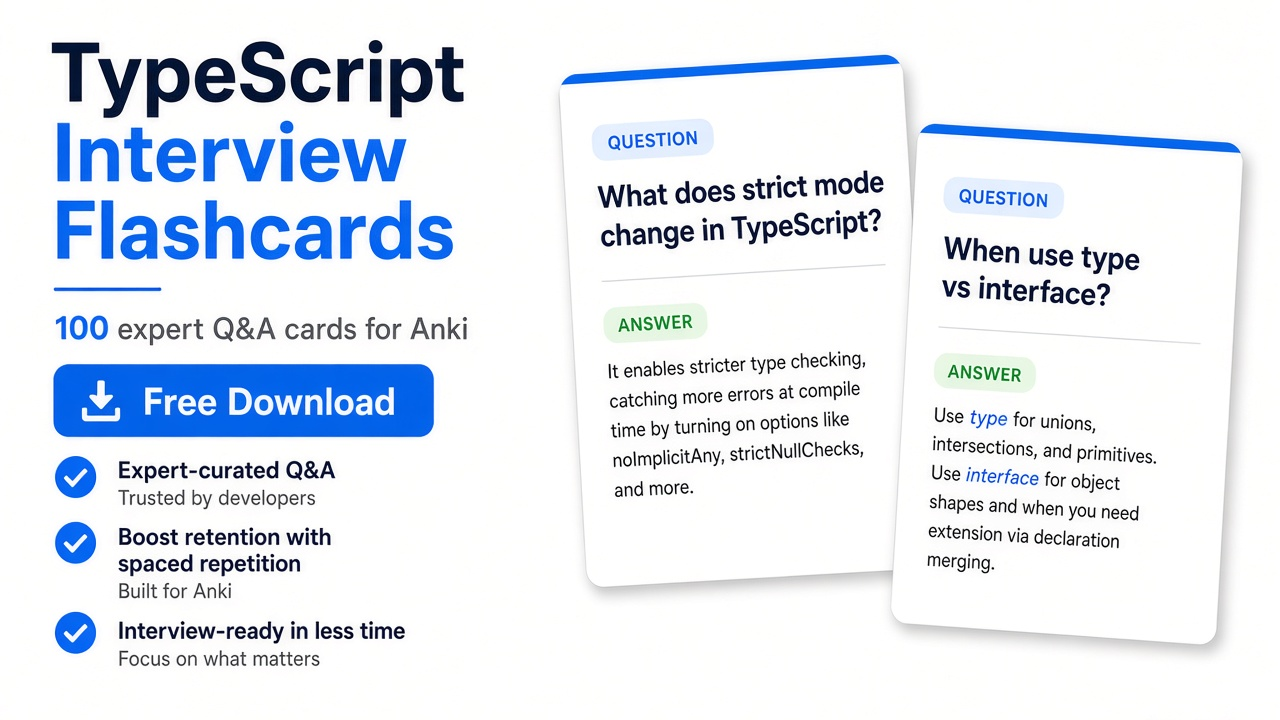
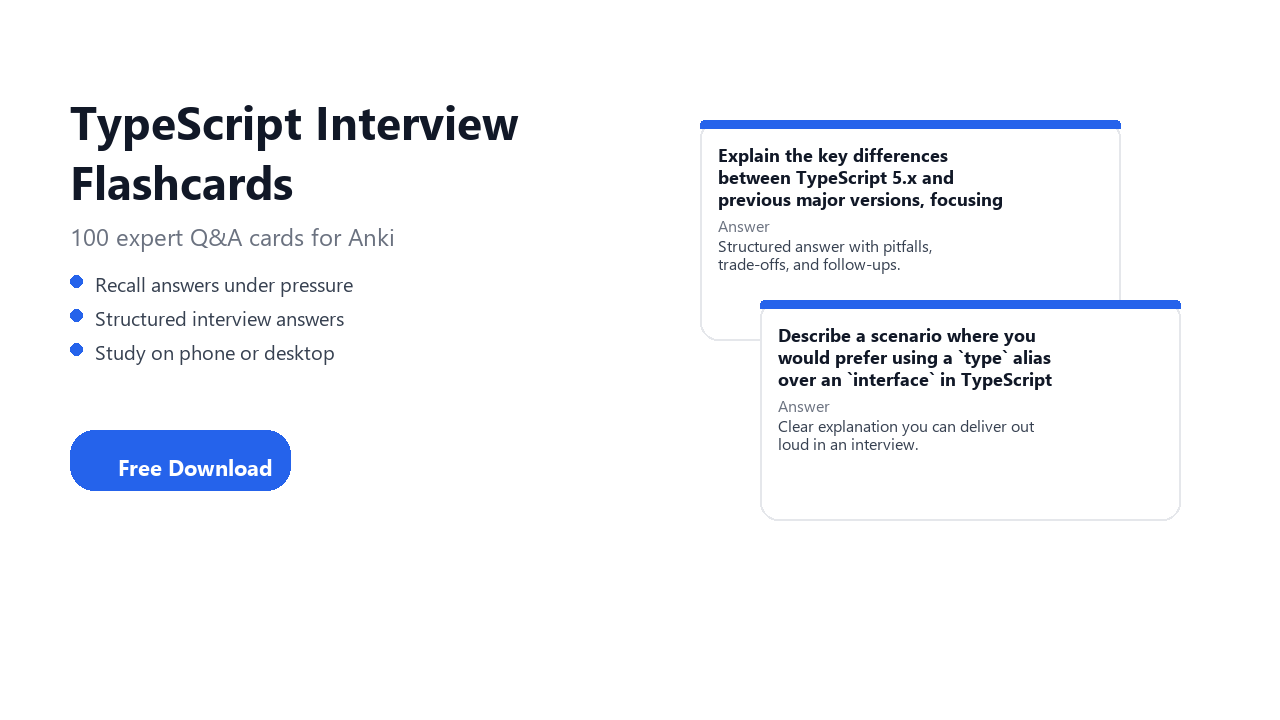
Updating TypeScript Interview Flashcards Free Anki deck repo

diff --git a/README.md b/README.md
@@ -180,7 +180,6 @@ If you use Anki on more than one device, you can use [AnkiWeb sync](https://docs
 | --- | --- |
 | **Cards** | 100 interview questions with detailed answers |
 | **Audience** | software engineer |
-| **Edition** | 2026 |
 | **Topics** | TypeScript 5.x, generics, utility types, narrowing, strict mode, and modules |
 | **Deck file** | `TypeScript_Interview_2026.apkg` |
 
@@ -250,6 +249,7 @@ Releases are tagged by year (e.g. `v2026.1`). Watch this repo for new editions.
 
 Part of the **Summon The JSON** interview flashcard series:
 
+- **[Full deck catalog](https://github.com/tomaszs/flashcards)** · all free interview flashcard repos by topic
 - [Summon The JSON](https://summonthejson.com) · physical and printable decks
 - GitHub: search [`tomaszs interview-flashcards-free`](https://github.com/search?q=tomaszs+interview-flashcards-free&type=repositories) for related repos
 - Topics: typescript, software engineering interview, anki interview prep
@@ -287,7 +287,7 @@ Commercial, derivative, organizational, or AI-related licenses start at **USD $5
 
 ## Changelog
 
-### v2026.1 (2026)
+### v2026.1
 
 - Initial public release: 100 cards for TypeScript interviews
-- Edition aligned with 2026 hiring and tooling
+- Structured Q&A aligned with modern hiring topics

diff --git a/deck-source/topics.md b/deck-source/topics.md
@@ -16,5 +16,5 @@ Category index for SEO and navigation. Card text lives in the `.apkg` release on
 ## Also covers
 
 - Interview-style questions and structured answers
-- Production and modern tooling (2026 edition)
+- Production and modern tooling
 - Common pitfalls and follow-up angles
